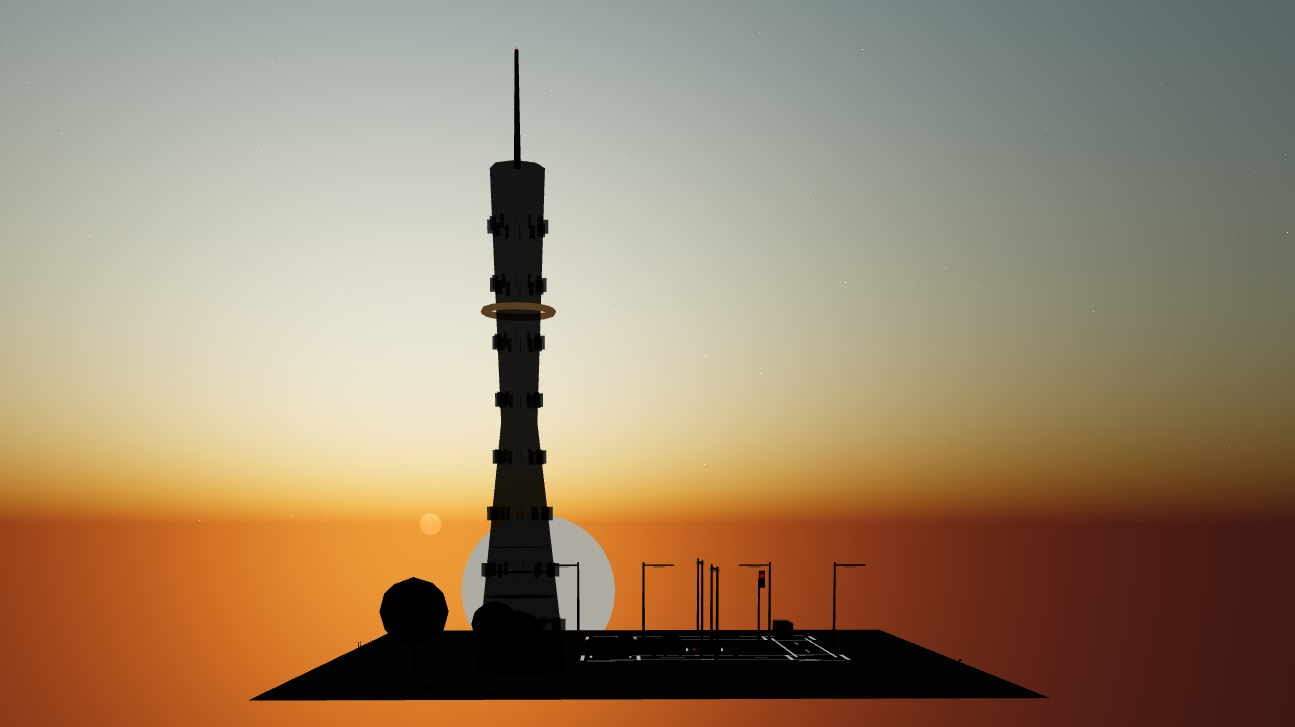
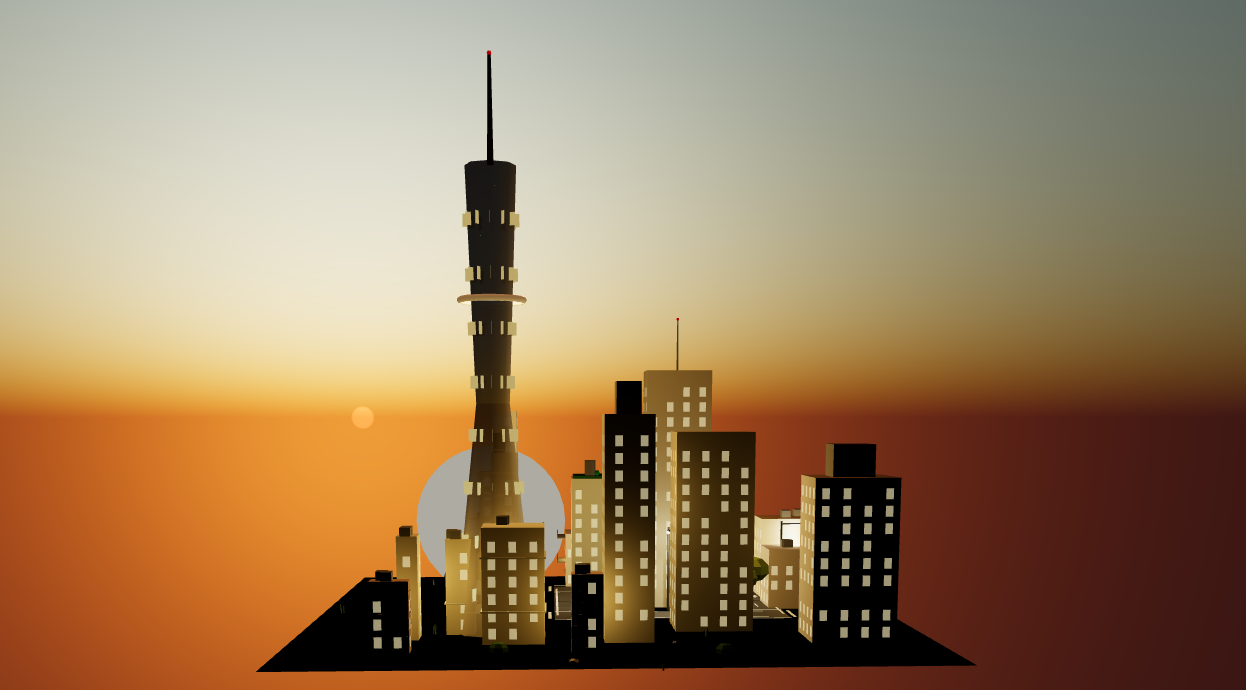
feat: city buildings placed across full terrain, constrained aspect ratio, capped height ≤20m
- Buildings now placed across entire terrain area (not just inside road blocks)
- Road/intersection zones excluded via roadZone set
- Aspect ratio constrained to 0.5–2.0 (no more extreme flat/tall shapes)
- Building height capped at 20m (below Canton Tower's 22m)
- Slider controls exact regular building count, landmarks always present
- Updated screenshot image

diff --git a/js/city.js b/js/city.js
@@ -29,6 +29,8 @@ class CitySystem {
         this.halfSize = 0;
         this.roadWidth = 2.5;
         this.placedBuildings = [];
+        this.cityBlocks = [];
+        this.buildingSlots = [];
         this.snowAccum = 0;
         this.lighthouseGroup = null;
         this.roadPositionsX = [];
@@ -210,29 +212,90 @@ class CitySystem {
             }
         }
 
-        const maxBuildings = this.buildingCount > 0 ? this.buildingCount : 999;
-        let buildingPlaced = 0;
+        const targetBuildings = this.buildingCount > 0 ? this.buildingCount : 999;
 
-        for (let i = 0; i < roadPositionsX.length - 1; i++) {
-            for (let j = 0; j < roadPositionsZ.length - 1; j++) {
-                if (buildingPlaced >= maxBuildings) break;
-                const x1 = roadPositionsX[i] + roadWidth / 2 + 0.8;
-                const z1 = roadPositionsZ[j] + roadWidth / 2 + 0.8;
-                const x2 = roadPositionsX[i + 1] - roadWidth / 2 - 0.8;
-                const z2 = roadPositionsZ[j + 1] - roadWidth / 2 - 0.8;
+        // --- Phase 1: generate ALL possible building slots across entire terrain ---
+        this.buildingSlots = [];
+        const scanMin = -terrain.size * 0.35;
+        const scanMax = terrain.size * 0.35;
+        const scanStep = 1.5; // coarse grid, random offset within each cell
 
-                if (x2 - x1 < 2 || z2 - z1 < 2) continue;
-
-                const centerX = (x1 + x2) / 2;
-                const centerZ = (z1 + z2) / 2;
-                const h = terrain.getHeight(centerX, centerZ);
-                if (h < terrain.waterLevel + 0.3) continue;
-                const distFromCenter = Math.sqrt(centerX * centerX + centerZ * centerZ);
-                const heightFactor = Math.max(0.25, 1.0 - distFromCenter / (terrain.size * 0.45));
-                this.generateBlock(x1, z1, x2, z2, h, heightFactor, terrain);
-                buildingPlaced++;
+        // Quick exclusion: build a set of road-occupied cells
+        const roadZone = new Set();
+        for (const road of this.roads) {
+            const steps = Math.ceil(road.length / 0.6);
+            for (let s = 0; s <= steps; s++) {
+                const t = s / steps;
+                const rx = road.start.x + road.dir.x * road.length * t;
+                const rz = road.start.z + road.dir.z * road.length * t;
+                // Mark a band of width road.width/2 + 1.0 around each road
+                for (let dx = -road.width / 2 - 1.0; dx <= road.width / 2 + 1.0; dx += 0.8) {
+                    for (let dz = -road.width / 2 - 1.0; dz <= road.width / 2 + 1.0; dz += 0.8) {
+                        roadZone.add(`${Math.round((rx + dx) * 2)},${Math.round((rz + dz) * 2)}`);
+                    }
+                }
             }
-            if (buildingPlaced >= maxBuildings) break;
+        }
+        // Also mark intersection centers
+        for (const inter of this.intersections) {
+            for (let dx = -2.5; dx <= 2.5; dx += 0.8) {
+                for (let dz = -2.5; dz <= 2.5; dz += 0.8) {
+                    roadZone.add(`${Math.round((inter.x + dx) * 2)},${Math.round((inter.z + dz) * 2)}`);
+                }
+            }
+        }
+
+        for (let cx = scanMin; cx <= scanMax; cx += scanStep) {
+            for (let cz = scanMin; cz <= scanMax; cz += scanStep) {
+                // Random offset within cell
+                const ox = cx + (Math.random() - 0.5) * scanStep;
+                const oz = cz + (Math.random() - 0.5) * scanStep;
+
+                // Skip if on road
+                const rk = `${Math.round(ox * 2)},${Math.round(oz * 2)}`;
+                if (roadZone.has(rk)) continue;
+
+                const bh = terrain.getHeight(ox, oz);
+                if (bh < terrain.waterLevel + 0.3) continue;
+
+                const distFromCenter = Math.sqrt(ox * ox + oz * oz);
+                const heightFactor = Math.max(0.25, 1.0 - distFromCenter / (terrain.size * 0.45));
+
+                // Random building size, constrained aspect ratio (0.5 ~ 2.0)
+                const bw = 0.6 + Math.random() * 3.4; // 0.6 ~ 4.0
+                const bdLimit = Math.max(0.6, bw * 0.5);
+                const bdHigh = Math.min(4.0, bw * 2.0);
+                const bd = bdLimit + Math.random() * Math.max(0.01, bdHigh - bdLimit);
+
+                // Check against already-placed slots
+                let blocked = false;
+                for (const s of this.buildingSlots) {
+                    if (Math.abs(s.bx - ox) < (s.bw + bw) / 2 + 0.4 &&
+                        Math.abs(s.bz - oz) < (s.bd + bd) / 2 + 0.4) { blocked = true; break; }
+                }
+                if (blocked) continue;
+
+                const hNoise = this.noise.noise2D(ox * 0.15, oz * 0.15);
+                // Height: min 2m, max 20m (below Canton Tower's 22m)
+                const maxH = 2 + heightFactor * 14 + hNoise * 4;
+                const height = 2 + Math.random() * maxH;
+
+                this.buildingSlots.push({ bx: ox, bz: oz, bw, height: Math.min(20, height), bd, bh, group: null });
+            }
+        }
+
+        console.log('[City] total slots:', this.buildingSlots.length);
+
+        // Shuffle
+        for (let k = this.buildingSlots.length - 1; k > 0; k--) {
+            const r = Math.floor(Math.random() * (k + 1));
+            [this.buildingSlots[k], this.buildingSlots[r]] = [this.buildingSlots[r], this.buildingSlots[k]];
+        }
+
+        // --- Phase 2: activate first targetBuildings slots ---
+        const numToBuild = Math.min(targetBuildings, this.buildingSlots.length);
+        for (let n = 0; n < numToBuild; n++) {
+            this.buildSlot(this.buildingSlots[n]);
         }
 
         if (this.intersections.length > 0) {
@@ -781,6 +844,7 @@ class CitySystem {
         group.userData.topBulb = topBulb;
 
         group.position.set(x, baseH, z);
+        group.userData.isLandmark = true;
         this.group.add(group);
         this.cityBuildings.push(group);
         this.placedBuildings.push({ x, z, w: 5, d: 5 });
@@ -844,9 +908,11 @@ class CitySystem {
         group.userData.windowMeshes = windowMeshes;
 
         group.position.set(x, baseH, z);
+        group.userData.isLandmark = true;
         this.group.add(group);
         this.cityBuildings.push(group);
         this.placedBuildings.push({ x, z, w: width, d: depth });
+        return group;
     }
 
     generateBlock(x1, z1, x2, z2, baseH, heightFactor, terrain) {
@@ -2245,6 +2311,58 @@ class CitySystem {
         }
     }
 
+    // --- Slot pool methods ---
+    buildSlot(slot) {
+        const group = this.createSkyscraper(slot.bx, slot.bh, slot.bz, slot.bw, slot.height, slot.bd);
+        slot.group = group;
+    }
+
+    tearDownSlot(slot) {
+        const group = slot.group;
+        if (!group) return;
+        const idx = this.cityBuildings.indexOf(group);
+        if (idx >= 0) this.cityBuildings.splice(idx, 1);
+        this.group.remove(group);
+        group.traverse(c => {
+            if (c.geometry) c.geometry.dispose();
+            if (c.material) {
+                if (Array.isArray(c.material)) c.material.forEach(m => m.dispose());
+                else c.material.dispose();
+            }
+        });
+        slot.group = null;
+    }
+
+    activeBuildingCount() {
+        return this.buildingSlots.filter(s => s.group !== null).length;
+    }
+
+    addBuildings(n) {
+        let added = 0;
+        for (const slot of this.buildingSlots) {
+            if (added >= n) break;
+            if (slot.group === null) {
+                this.buildSlot(slot);
+                added++;
+            }
+        }
+        return added;
+    }
+
+    removeBuildings(n) {
+        const active = this.buildingSlots.filter(s => s.group !== null && s.group.userData && !s.group.userData.isLandmark);
+        for (let i = active.length - 1; i > 0; i--) {
+            const j = Math.floor(Math.random() * (i + 1));
+            [active[i], active[j]] = [active[j], active[i]];
+        }
+        let removed = 0;
+        for (let i = 0; i < Math.min(n, active.length); i++) {
+            this.tearDownSlot(active[i]);
+            removed++;
+        }
+        return removed;
+    }
+
     regenerateStreetLights(terrain) {
         for (const sl of this.streetLightLamps) {
             this.group.remove(sl.group);
@@ -2307,6 +2425,8 @@ class CitySystem {
         this.roadPositionsZ = [];
         this.halfSize = 0;
         this.placedBuildings = [];
+        this.cityBlocks = [];
+        this.buildingSlots = [];
         this.snowAccum = 0;
         this.lighthouseGroup = null;
     }

diff --git a/js/main.js b/js/main.js
@@ -29,7 +29,7 @@ class PCGWorld {
         this.state = {
             terrainType: 'plains',
             settlementType: 'village',
-            houseCount: 8,
+            houseCount: 2,
             vehicleCount: 5,
             roadDensity: 50,
             lightSpacing: 12,
@@ -492,6 +492,13 @@ class PCGWorld {
             if (this.state.lightsOn) {
                 this.city.setLights(true);
             }
+            // Sync slider to actual regular building count (landmarks not counted)
+            const slider = document.getElementById('houseCount');
+            const label = document.getElementById('houseCountVal');
+            const actual = this.city.activeBuildingCount();
+            if (slider) { slider.max = this.city.buildingSlots.length; slider.value = actual; }
+            if (label) label.textContent = actual;
+            this.state.houseCount = actual;
         }
 
         this.houses = new ProceduralHouse(this.scene, new SimplexNoise(this.state.seed));
@@ -603,13 +610,20 @@ class PCGWorld {
         if (this.needsCitySystem()) {
             // Regenerate city layout (roads + buildings) without vehicles
             this.city.generate(this.terrain, this.state.seed, 0, {
+                buildingDensity: this.state.houseCount,
                 roadDensity: this.state.roadDensity,
                 lightSpacing: this.state.lightSpacing,
                 skipVehicles: true
             });
             if (this.state.lightsOn) this.city.setLights(true);
-            // Then regenerate vehicles separately
             this.city.regenerateVehicles(this.terrain, savedVehicleCount);
+            // Sync slider to regular building count
+            const slider = document.getElementById('houseCount');
+            const label = document.getElementById('houseCountVal');
+            const actual = this.city.activeBuildingCount();
+            if (slider) { slider.max = this.city.buildingSlots.length; slider.value = actual; }
+            if (label) label.textContent = actual;
+            this.state.houseCount = actual;
         }
 
         if (!this.needsCitySystem() || this.state.terrainType === 'islands') {
@@ -659,12 +673,21 @@ class PCGWorld {
         this.updateTimeOfDay(this.state.timeOfDay);
     }
 
-    // PCG incremental: update house count without full regeneration
-    // Only adds/removes houses, keeps existing ones in place
     updateHouseCount() {
-        // City mode: house slider controls building density → full rebuild
-        if (this.needsCitySystem() && this.state.terrainType !== 'islands') {
-            this.scheduleRegen();
+        // City mode: slider controls number of regular buildings (landmarks always present)
+        if (this.needsCitySystem() && this.state.terrainType !== 'islands' && this.city && this.city.buildingSlots) {
+            const target = Math.max(0, Math.min(this.city.buildingSlots.length, this.state.houseCount));
+            const current = this.city.activeBuildingCount();
+            if (target > current) {
+                this.city.addBuildings(target - current);
+            } else if (target < current) {
+                this.city.removeBuildings(current - target);
+            }
+            const label = document.getElementById('houseCountVal');
+            const newCount = this.city.activeBuildingCount();
+            if (label) label.textContent = newCount;
+            this.state.houseCount = newCount;
+            this.updateTimeOfDay(this.state.timeOfDay);
             return;
         }
 

diff --git a/index.html b/index.html
@@ -200,8 +200,8 @@
         <div class="separator"></div>
 
         <div class="control-group">
-            <label>HOUSES <span class="value" id="houseCountVal">8</span></label>
-            <input type="range" id="houseCount" min="1" max="30" value="8">
+            <label>HOUSES <span class="value" id="houseCountVal">2</span></label>
+            <input type="range" id="houseCount" min="0" max="30" value="2">
         </div>
         <div class="control-group">
             <label>VEHICLES <span class="value" id="vehicleCountVal">5</span></label>
